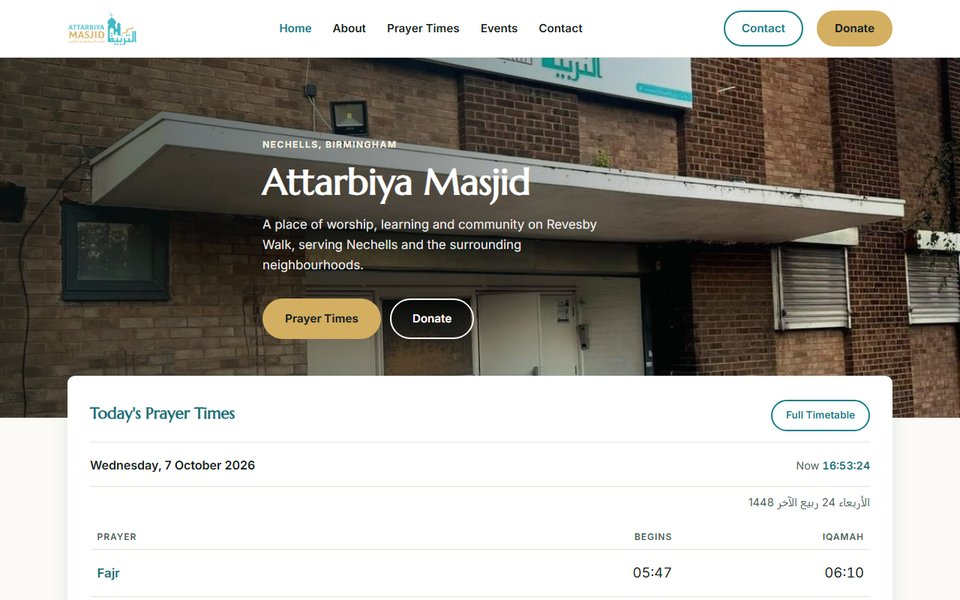
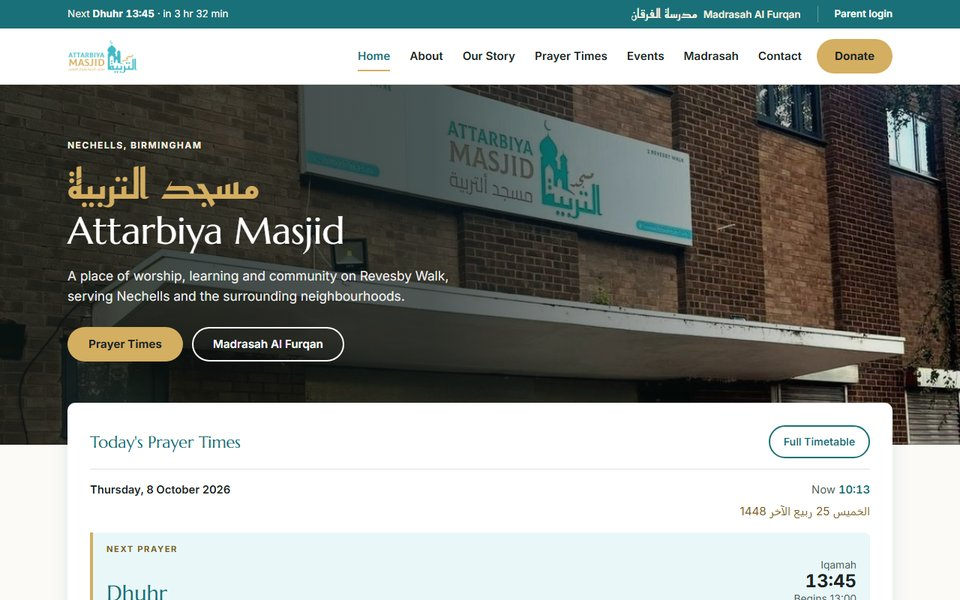
Profile: add LectureFlow, job line; fold donation page into masjid site
LectureFlow is now public, so it gets a full card. The donation page
moved into the main masjid website, so its card is gone and the masjid
card links to masjidattarbiya.org with a fresh screenshot. Each card
gets one line on what was built.

diff --git a/README.md b/README.md
@@ -2,7 +2,8 @@
 
 <p align="center">
 Computer Science graduate, University of Leeds. Based in Birmingham, UK.<br>
-I build websites and web apps, mostly for Qur'an study and my local masjid.
+I build websites and web apps, mostly in TypeScript and JavaScript.<br>
+Looking for graduate software engineering roles, in Birmingham or remote.
 </p>
 
 <p align="center">
@@ -15,30 +16,31 @@ I build websites and web apps, mostly for Qur'an study and my local masjid.
 <table>
   <tr>
     <td width="33%" valign="top">
+      <a href="https://github.com/9ali-oop/lecture-feedback"><img src="assets/lectureflow.jpg" alt="LectureFlow title card"></a>
+      <h3>LectureFlow</h3>
+      <p>My final-year project. Students react to each slide during a lecture, ask and upvote questions and answer quick polls. The lecturer sees it all live, and both get a per-slide report afterwards.</p>
+      <p>I built the WebSocket server, the lecturer and student apps, and a rules-based engine that turns the live signals into suggestions for the lecturer.</p>
+      <p><sub>TypeScript · React · Hono · WebSockets · PostgreSQL</sub></p>
+      <p><a href="https://github.com/9ali-oop/lecture-feedback">Code</a></p>
+    </td>
+    <td width="33%" valign="top">
       <a href="https://tajweed-companion.web.app/"><img src="assets/tajweed.jpg" alt="Tajweed Companion home screen"></a>
       <h3>Tajweed Companion</h3>
       <p>Short drills for each of the 45 episodes of Dr. Ayman Swaid's tajweed course, with a 127-term glossary. Works offline, with optional sign-in to sync progress between devices.</p>
+      <p>Every Qur'anic quotation is checked against the Uthmani text each time the site is built.</p>
       <p><sub>JavaScript · Firebase · installable web app</sub></p>
       <p><a href="https://tajweed-companion.web.app/">Live site</a> · <a href="https://github.com/9ali-oop/tajweed-companion">Code</a></p>
     </td>
     <td width="33%" valign="top">
-      <a href="https://9ali-oop.github.io/masjidattarbiya-website/"><img src="assets/masjid-website.jpg" alt="Attarbiya Masjid website home page"></a>
+      <a href="https://masjidattarbiya.org/"><img src="assets/masjid-website.jpg" alt="Attarbiya Masjid website home page"></a>
       <h3>Attarbiya Masjid website</h3>
-      <p>Website for a masjid and community centre in Nechells, Birmingham. Prayer times, events and talks, with the prayer times updated daily by a scheduled GitHub Action.</p>
+      <p>Website for a masjid and community centre in Nechells, Birmingham: prayer times, events, the madrasah and online donations through GoCardless.</p>
+      <p>Prayer times update every day from Masjidbox through a scheduled GitHub Action. No framework and no build step.</p>
       <p><sub>HTML · CSS · JavaScript · GitHub Actions</sub></p>
-      <p><a href="https://9ali-oop.github.io/masjidattarbiya-website/">Live site</a> · <a href="https://github.com/9ali-oop/masjidattarbiya-website">Code</a></p>
-    </td>
-    <td width="33%" valign="top">
-      <a href="https://masjidattarbiya.org/"><img src="assets/masjid-donate.jpg" alt="Attarbiya Masjid donation page"></a>
-      <h3>Attarbiya donation page</h3>
-      <p>Donation page for the same charity. One-off and monthly giving through GoCardless, in a single page with no build step and no framework.</p>
-      <p><sub>HTML · CSS · JavaScript</sub></p>
-      <p><a href="https://masjidattarbiya.org/">Live site</a> · <a href="https://github.com/9ali-oop/masjid-attarbiya">Code</a></p>
+      <p><a href="https://masjidattarbiya.org/">Live site</a> · <a href="https://github.com/9ali-oop/masjidattarbiya-website">Code</a></p>
     </td>
   </tr>
 </table>
-
-**LectureFlow** (final-year project, code private): real-time feedback for lectures. Students react to each slide, ask and upvote questions and answer quick polls. The lecturer sees the results live, and both get a report per slide afterwards. TypeScript, React, Hono, WebSockets and PostgreSQL.
 
 ## Tools
 
